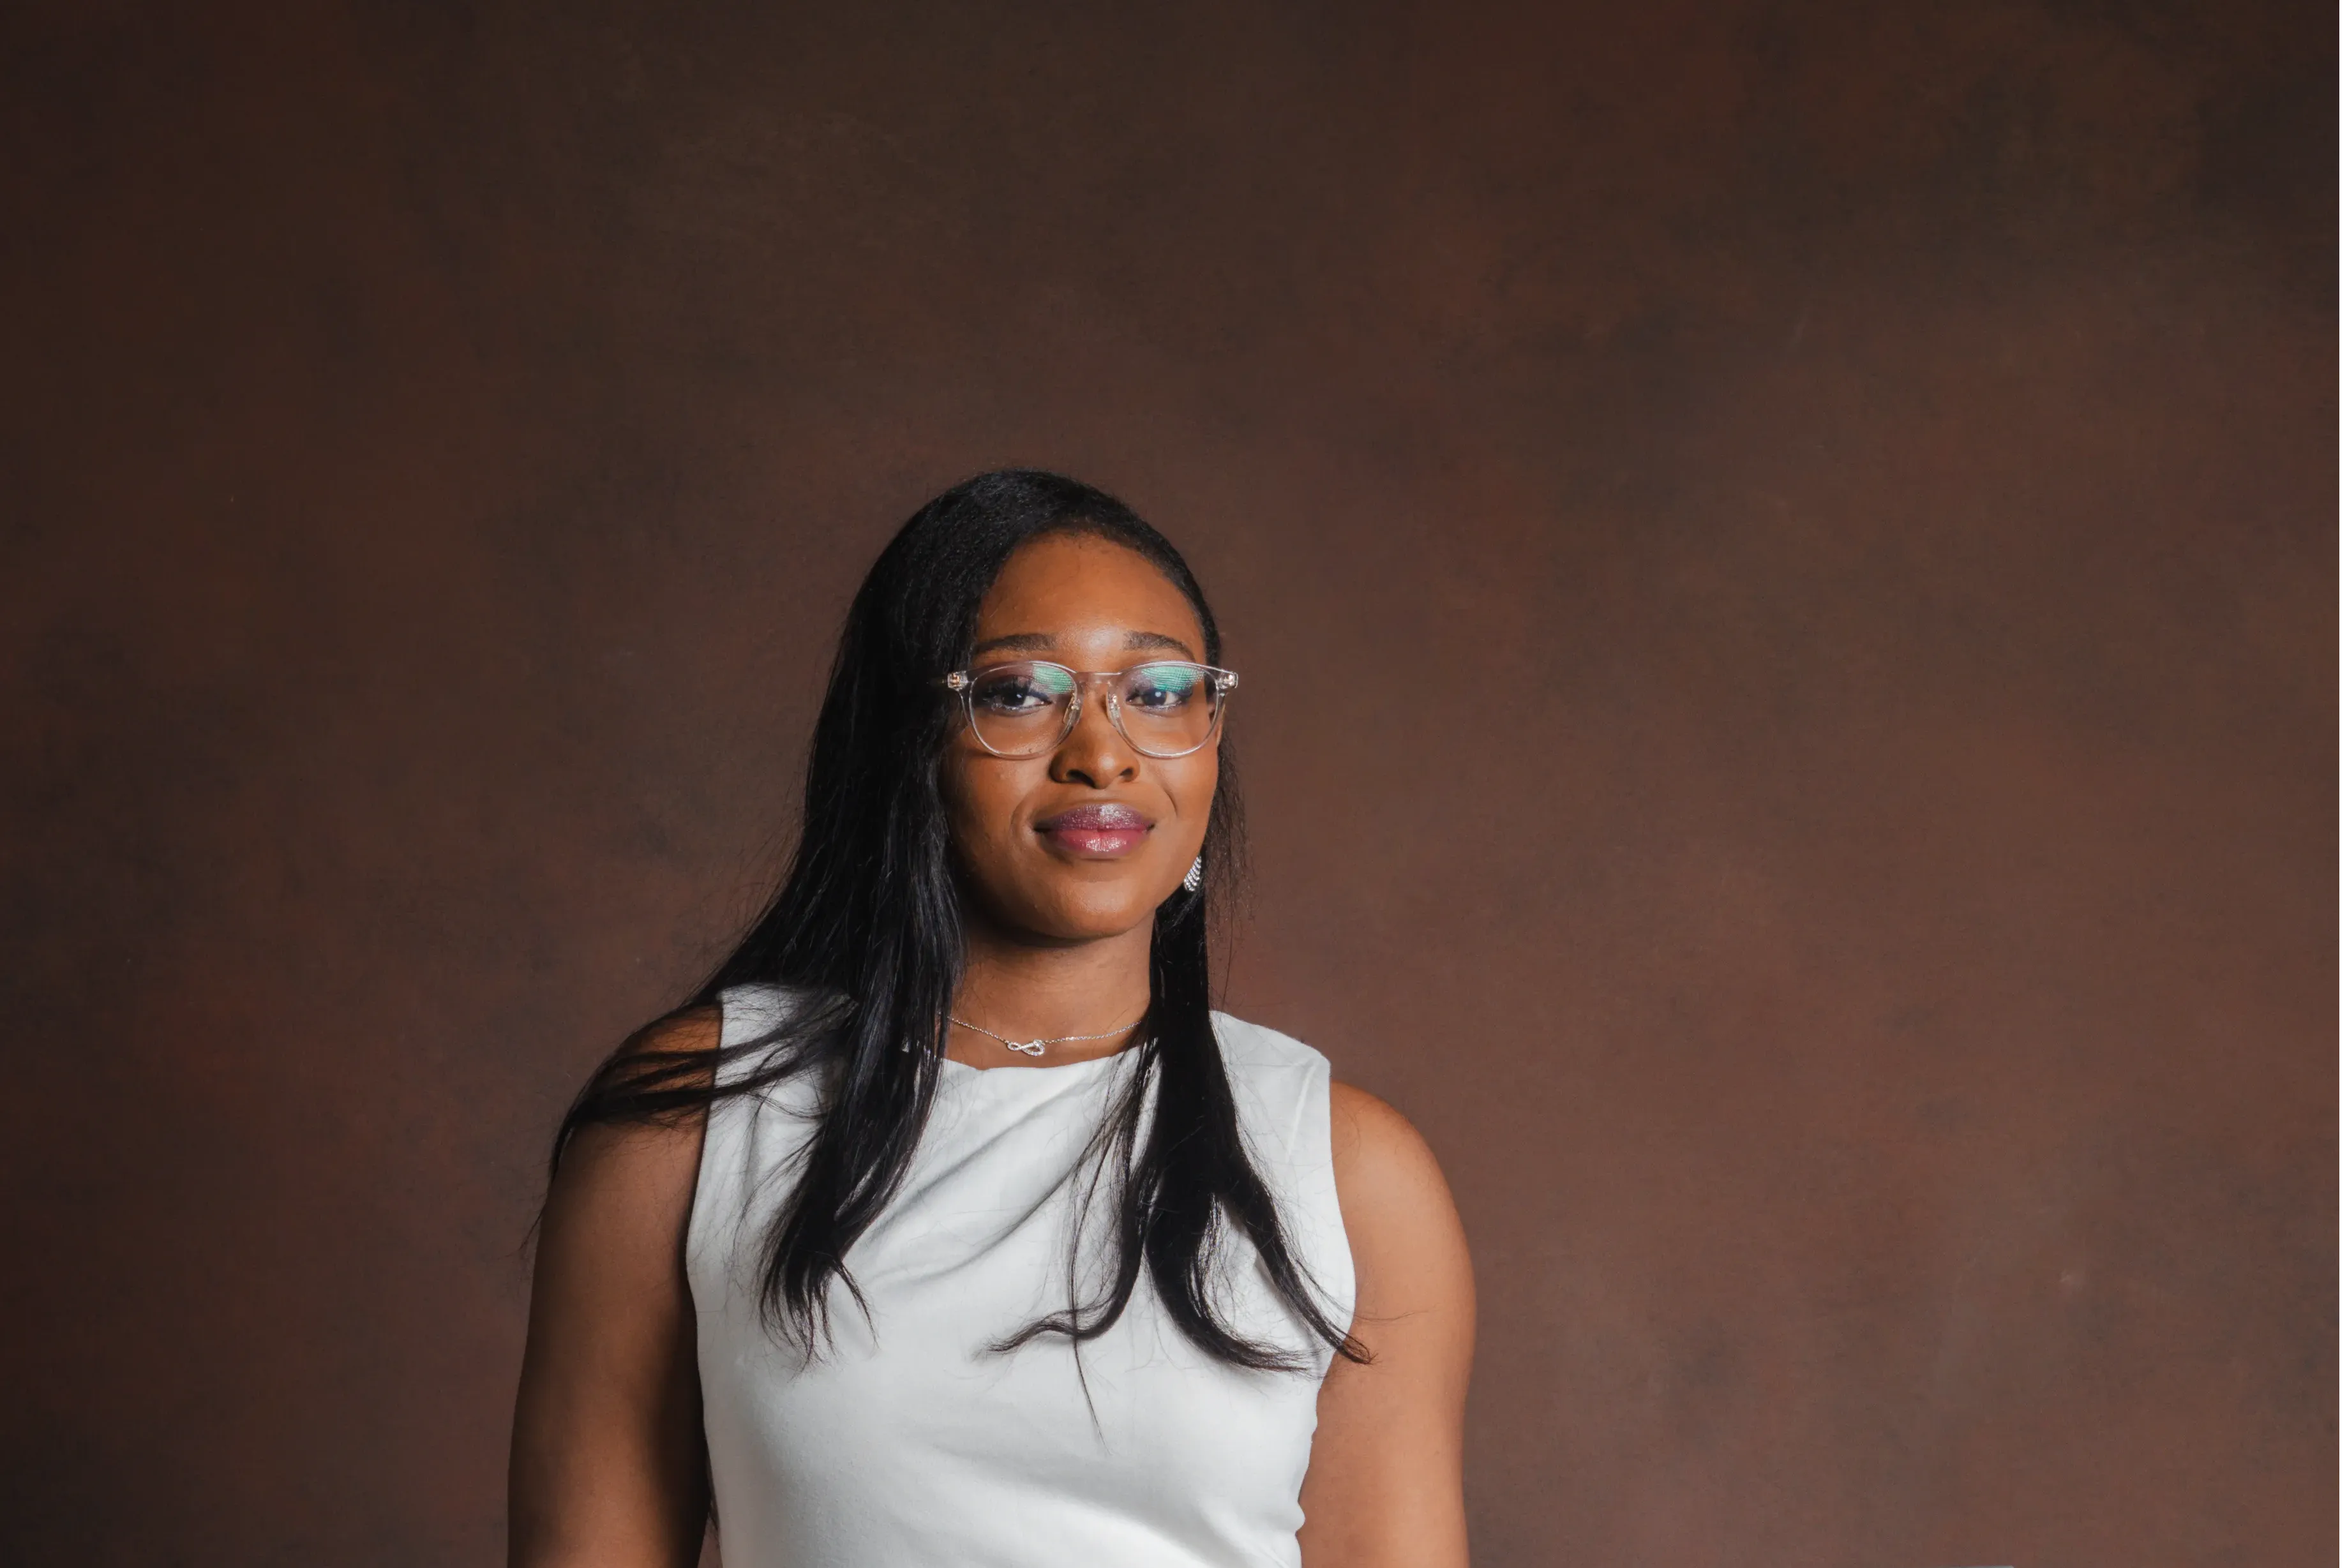
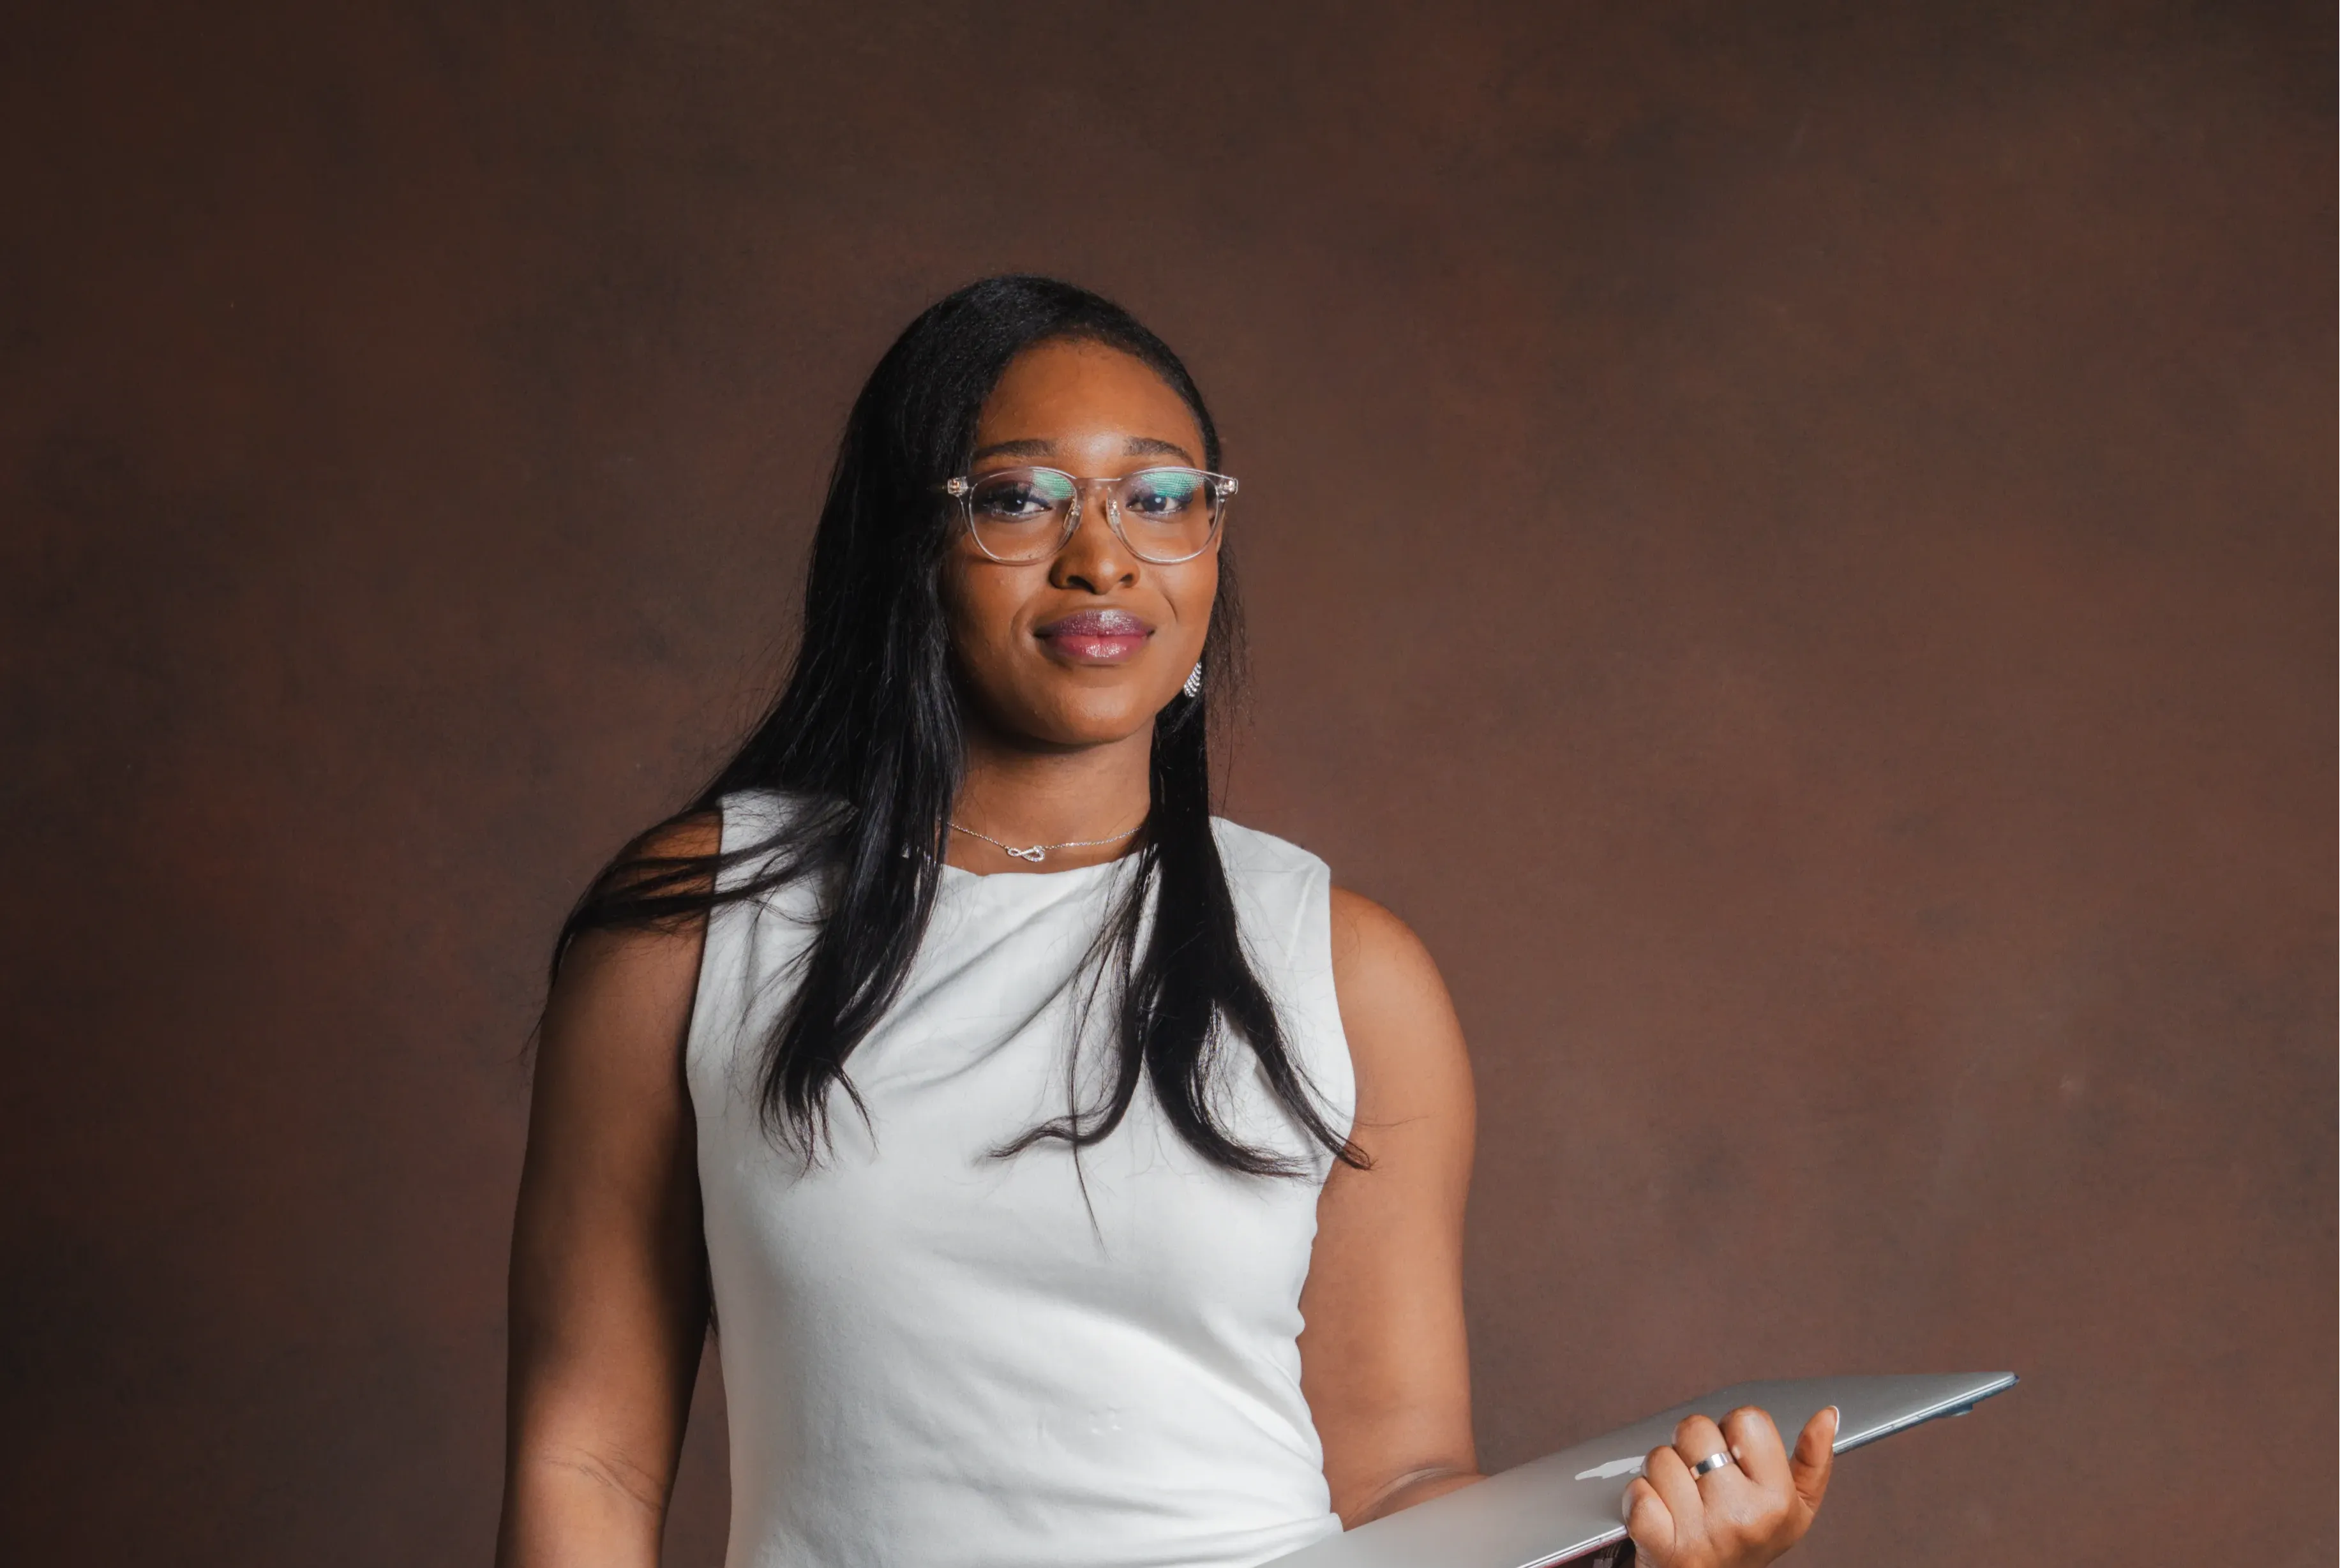
fixed corporate

diff --git a/Corporativa.html b/Corporativa.html
@@ -21,7 +21,7 @@
 
   <div class="hero-banner">
     <img src="assets/Empresa2banner.webp" alt="Corporativa">
-    <div class="hero-banner-title" style="top: 70%; left: 50%;">Corporativa</div>
+    <div class="hero-banner-title">Corporativa</div>
   </div>
 
   <section class="grid-section">